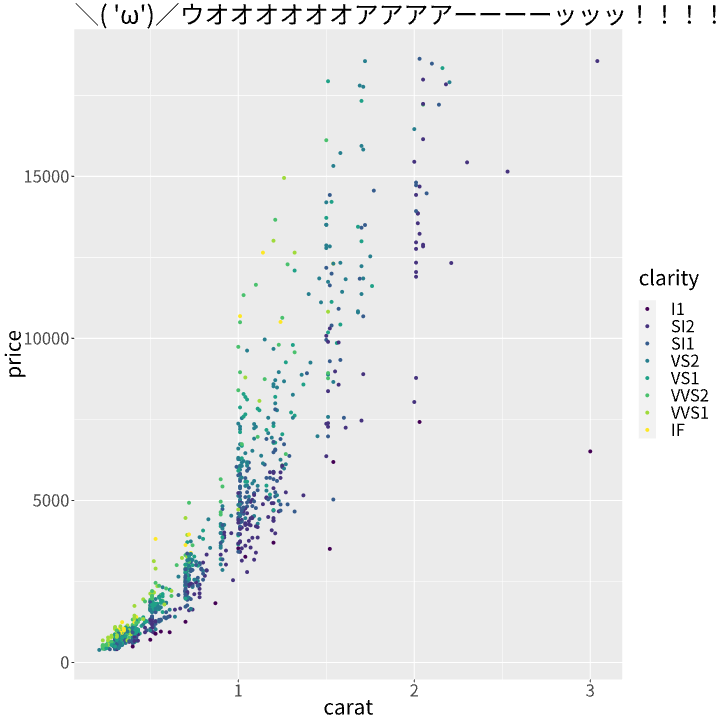
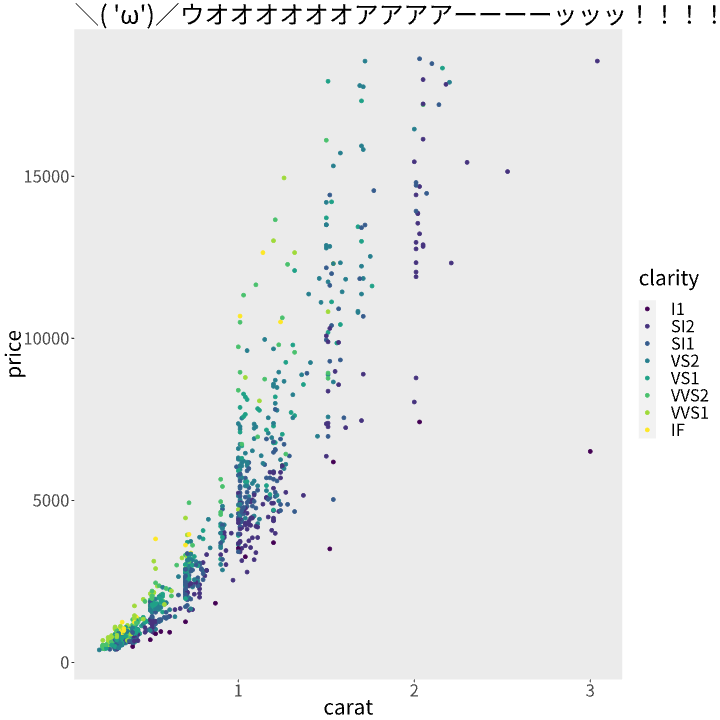
Tweak z positions

Changed region(s): [[0.1222, 0.55, 0.3972, 0.9167], [0.4278, 0.5806, 0.4583, 0.6111], [0.3667, 0.5194, 0.3972, 0.55]]

diff --git a/src/rust/src/graphics_device.rs b/src/rust/src/graphics_device.rs
@@ -42,11 +42,7 @@ impl StrokeVertexConstructor<crate::Vertex> for VertexCtor {
         let position = self.transform.transform_point2(position_orig.into());
 
         crate::Vertex {
-            position: [
-                position[0],
-                position[1],
-                self.layer as f32 / std::u32::MAX as f32,
-            ],
+            position: [position[0], position[1], 1.0 - self.layer as f32 / 100000.0],
             color: self.color,
             clipping_id: self.clipping_id,
         }
@@ -59,11 +55,7 @@ impl FillVertexConstructor<crate::Vertex> for VertexCtor {
         let position = self.transform.transform_point2(position_orig.into());
 
         crate::Vertex {
-            position: [
-                position[0],
-                position[1],
-                self.layer as f32 / std::u32::MAX as f32,
-            ],
+            position: [position[0], position[1], 1.0 - self.layer as f32 / 100000.0],
             color: self.color,
             clipping_id: self.clipping_id,
         }
@@ -136,66 +128,6 @@ impl crate::WgpuGraphicsDevice {
         fill_tess
             .tessellate_path(
                 path,
-                fill_options,
-                &mut BuffersBuilder::new(&mut self.geometry, ctxt),
-            )
-            .unwrap();
-    }
-
-    fn tesselate_circle_stroke(
-        &mut self,
-        center: lyon::math::Point,
-        r: f32,
-        stroke_options: &StrokeOptions,
-        color: i32,
-    ) {
-        if color.is_na() {
-            return;
-        }
-
-        let mut stroke_tess = StrokeTessellator::new();
-
-        let ctxt = VertexCtor::new(
-            color,
-            self.current_clipping_id,
-            self.current_layer as _,
-            glam::Affine2::IDENTITY,
-        );
-
-        stroke_tess
-            .tessellate_circle(
-                center,
-                r,
-                stroke_options,
-                &mut BuffersBuilder::new(&mut self.geometry, ctxt),
-            )
-            .unwrap();
-    }
-
-    fn tesselate_circle_fill(
-        &mut self,
-        center: lyon::math::Point,
-        r: f32,
-        fill_options: &FillOptions,
-        color: i32,
-    ) {
-        if color.is_na() {
-            return;
-        }
-
-        let mut fill_tess = FillTessellator::new();
-
-        let ctxt = VertexCtor::new(
-            color,
-            self.current_clipping_id,
-            self.current_layer as _,
-            glam::Affine2::IDENTITY,
-        );
-
-        fill_tess
-            .tessellate_circle(
-                center,
-                r,
                 fill_options,
                 &mut BuffersBuilder::new(&mut self.geometry, ctxt),
             )
@@ -410,6 +342,8 @@ impl DeviceDriver for crate::WgpuGraphicsDevice {
     }
 
     fn circle(&mut self, center: (f64, f64), r: f64, gc: R_GE_gcontext, _: DevDesc) {
+        self.current_layer += 1;
+
         let color = gc.col;
         let fill = gc.fill;
         let line_width = translate_line_width(gc.lwd);
@@ -420,8 +354,10 @@ impl DeviceDriver for crate::WgpuGraphicsDevice {
             stroke_width: line_width,
             fill_color: unsafe { std::mem::transmute(fill) },
             stroke_color: unsafe { std::mem::transmute(color) },
-            z: self.current_layer as f32 / std::u32::MAX as f32,
+            z: 1.0 - self.current_layer as f32 / 100000.0,
         });
+
+        self.current_layer += 1;
     }
 
     fn rect(&mut self, from: (f64, f64), to: (f64, f64), gc: R_GE_gcontext, _: DevDesc) {

diff --git a/src/rust/src/lib.rs b/src/rust/src/lib.rs
@@ -563,6 +563,9 @@ impl WgpuGraphicsDevice {
             render_pass.set_index_buffer(index_buffer.slice(..), wgpu::IndexFormat::Uint32);
             render_pass.draw_indexed(0..num_indices, 0, 0..1);
 
+            // reprintln!("{:?}", self.geometry.vertices);
+            // reprintln!("{:?}", self.sdf_instances);
+
             render_pass.set_pipeline(&self.sdf_render_pipeline);
             render_pass.set_bind_group(0, &self.globals_bind_group, &[]);
             render_pass.set_vertex_buffer(0, self.sdf_vertex_buffer.slice(..));
